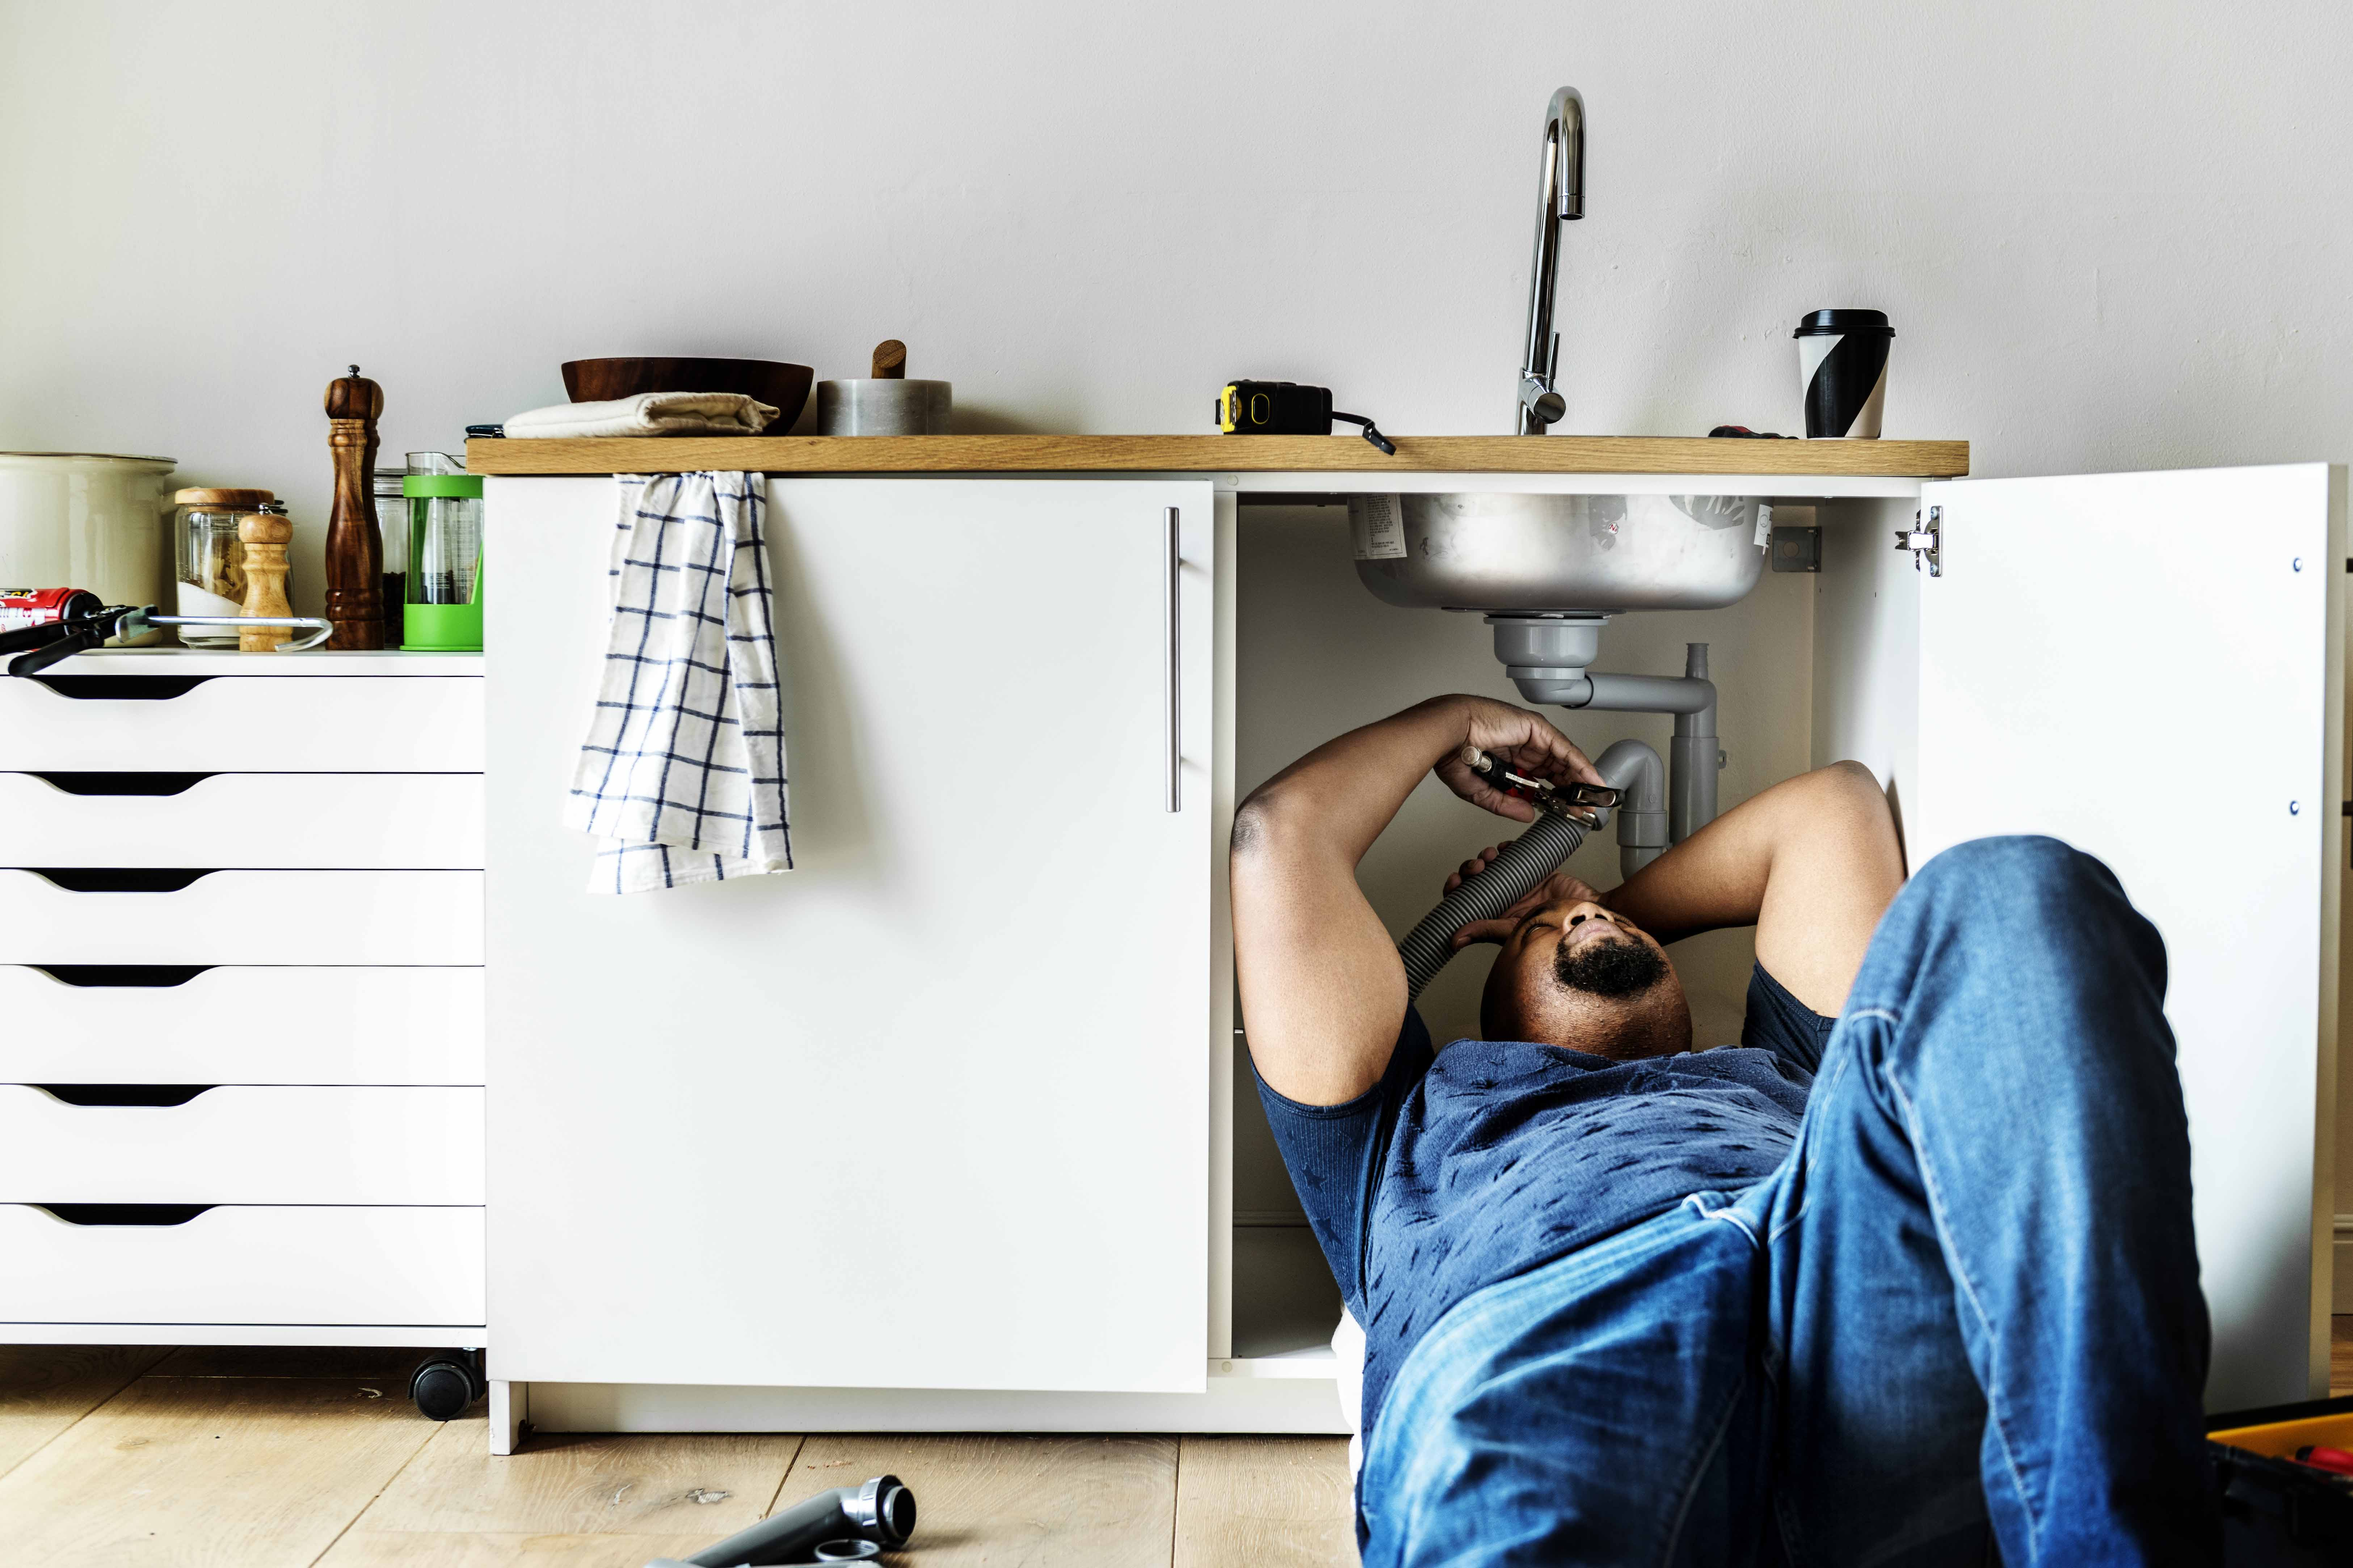
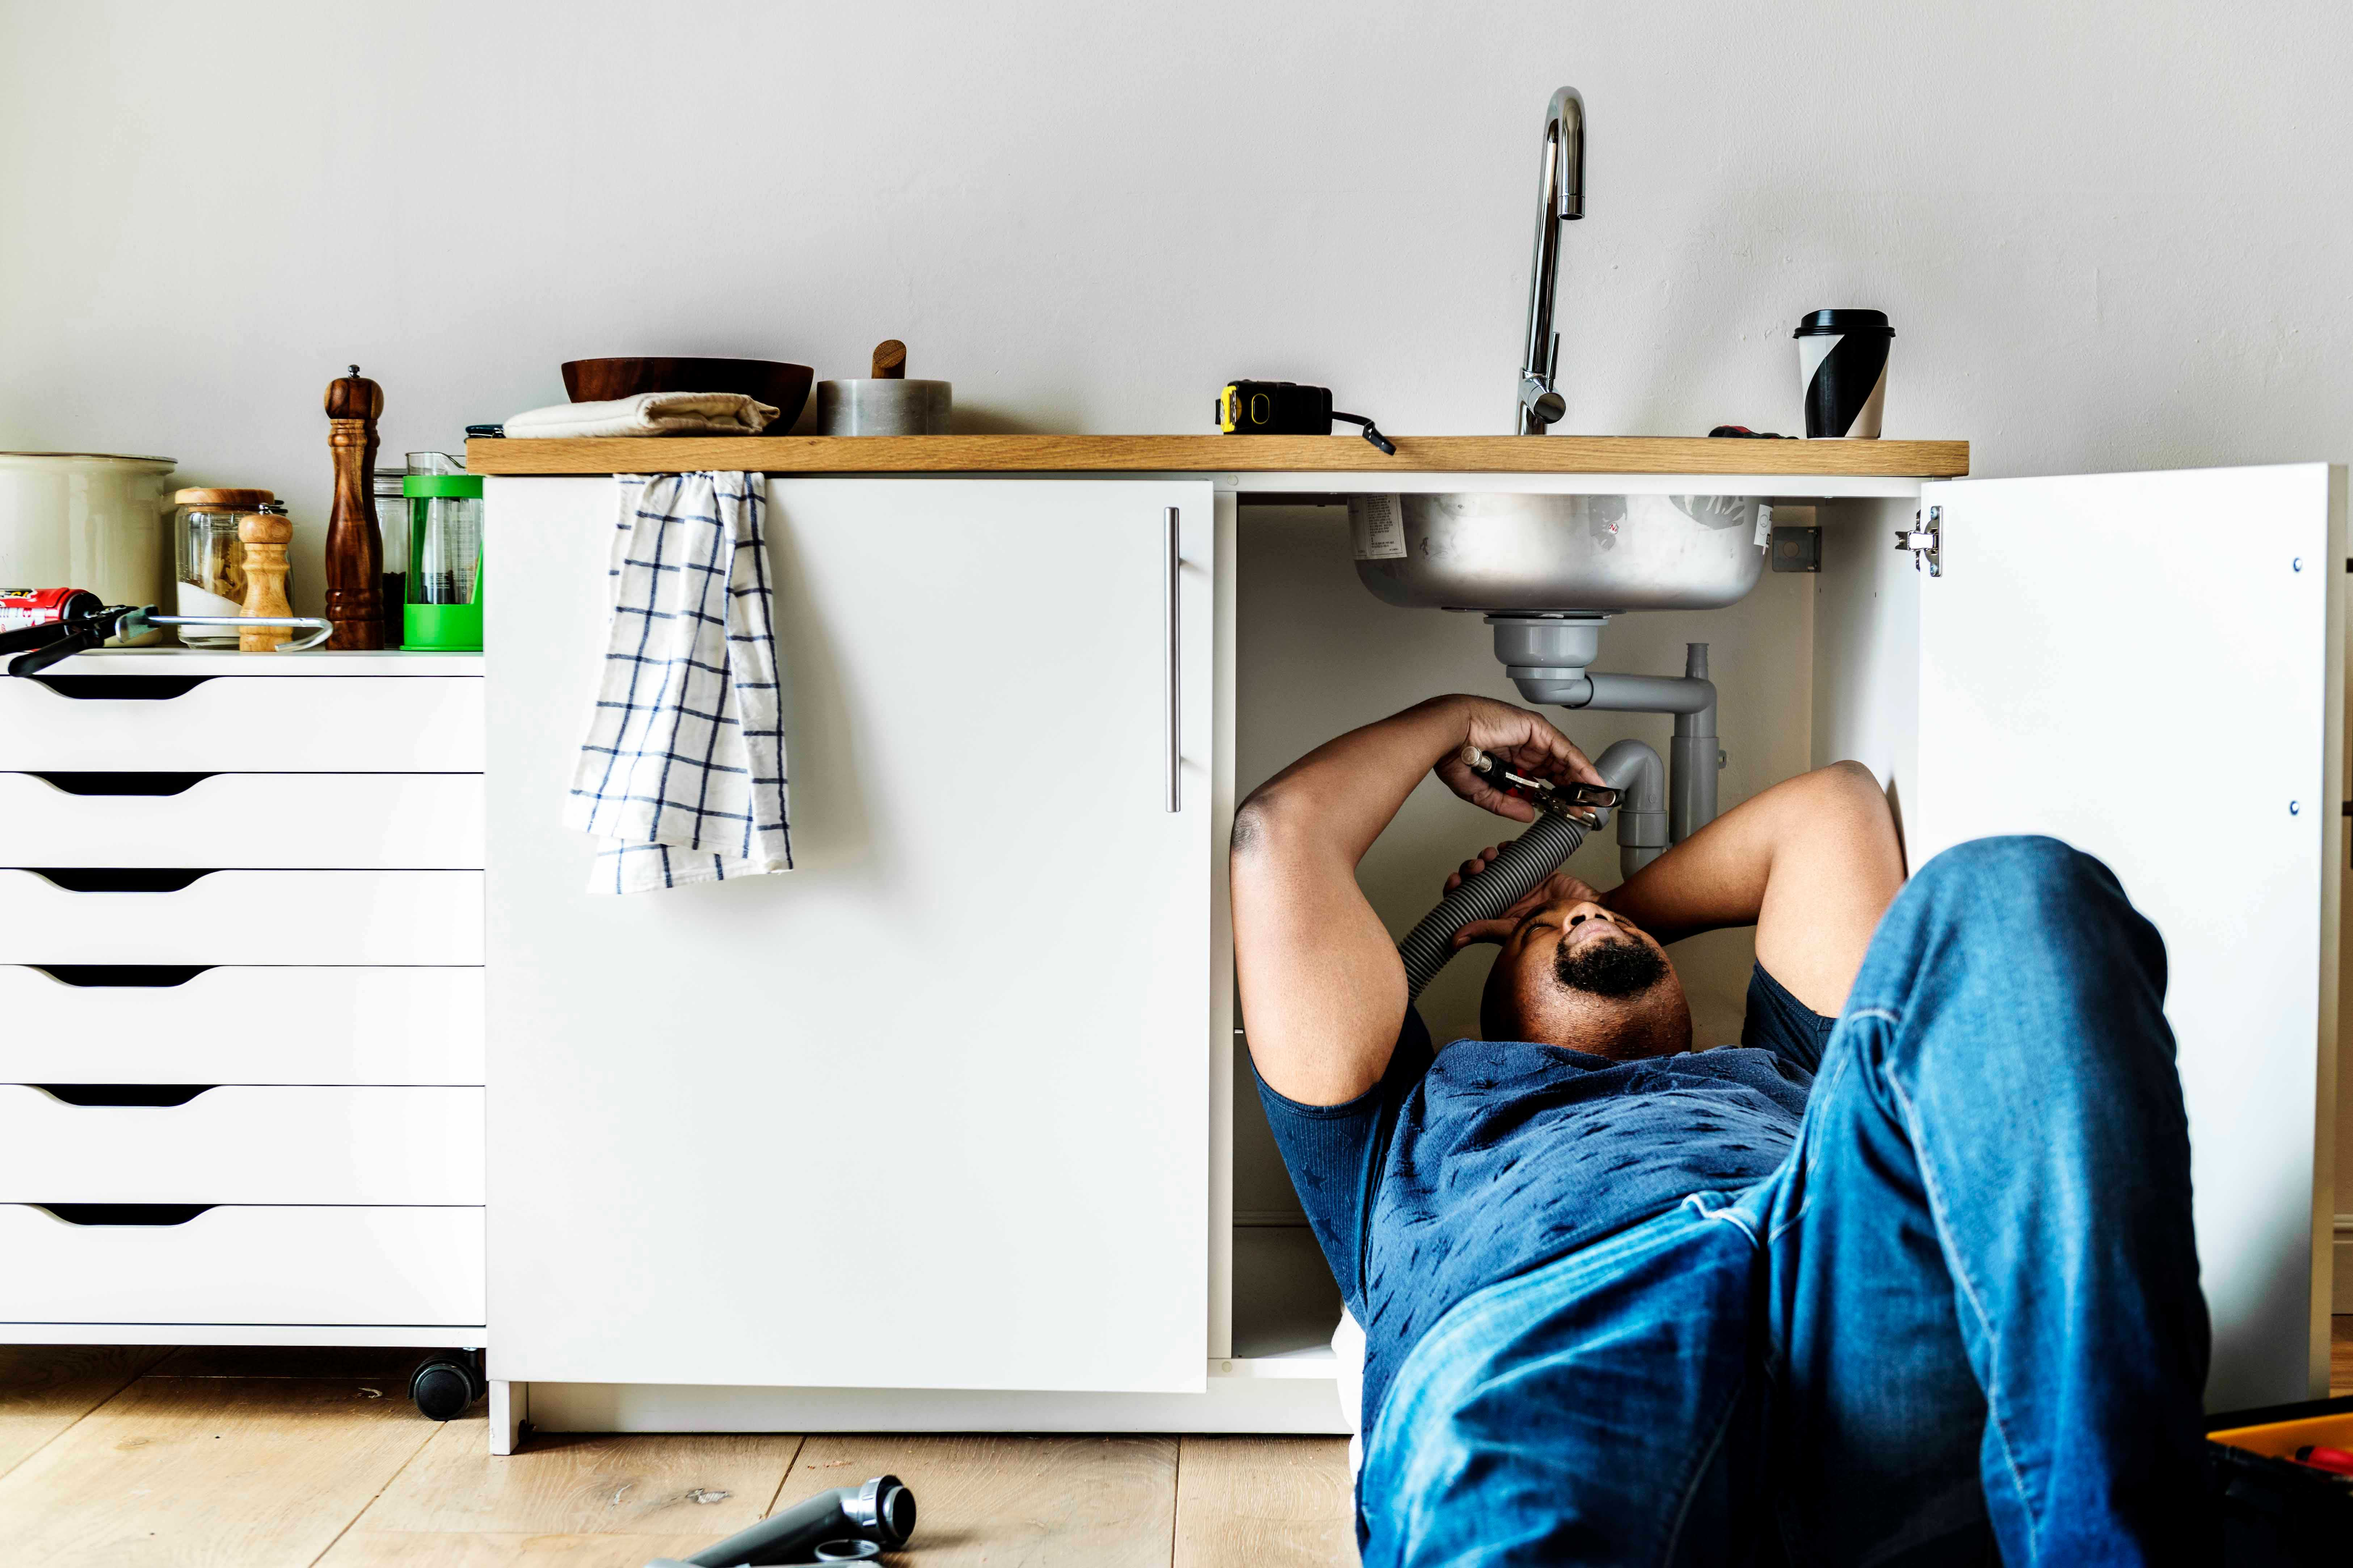
image optimized

diff --git a/index.html b/index.html
@@ -79,13 +79,13 @@
         
         <div class="carousel-inner">
           <div class="carousel-item active" data-bs-interval="5000">
-            <img src="./image/plumber dubai.png" class="d-block w-100" alt="...">
+            <img src="./image/plumber dubai.jpg" class="d-block w-100" alt="...">
           </div>
           <div class="carousel-item" data-bs-interval="5000">
-            <img src="./image/electrician dubai.png" class="d-block w-100" alt="...">
+            <img src="./image/electrician dubai.jpg" class="d-block w-100" alt="...">
           </div>
           <div class="carousel-item"  data-bs-interval="5000">
-            <img src="./image/movers and packers.png" class="d-block w-100" alt="...">
+            <img src="./image/movers and packers.jpg" class="d-block w-100" alt="...">
           </div>
         </div>
       </section>
